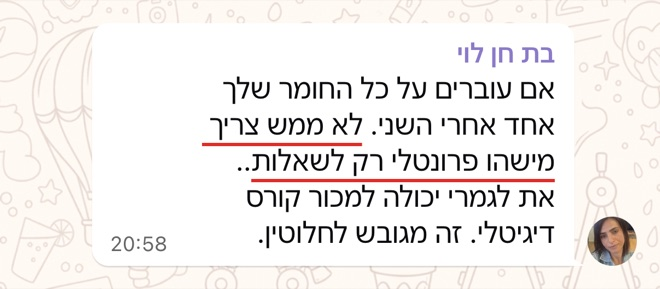
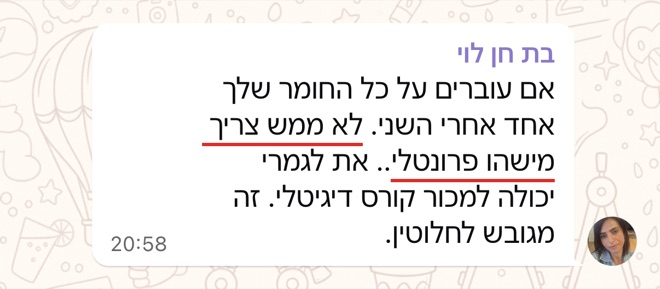
דף המפתח: סרטון ההסבר מעל המחיר, בלי רשימת הפרקים (הפרקים בנגן), ובת חן בלי 'רק לשאלות'

Changed region(s): [[0.3333, 0.5294, 0.8485, 0.7474], [0.3939, 0.7474, 0.8485, 0.872]]

diff --git a/index.html b/index.html
@@ -276,17 +276,10 @@ body{
 .what{background:var(--navy);padding:88px 0}
 .what .wrap{max-width:980px}
 .what h2{margin:0 0 26px;font-weight:800;color:#fff;line-height:1.25;font-size:clamp(26px,5.6vw,42px)}
-/* סרטון ההסבר "מה מקבלים במפתח" (17-10-2026, הכרעה 96) ורשימת הפרקים שמתחתיו.
-   הפרקים קיימים גם בתוך הנגן של Vimeo, אבל בטלפון התפריט שלהם קטן, ולכן הם מופיעים גם כאן. */
-.kv{margin:0 0 30px}
+/* סרטון ההסבר "מה מקבלים במפתח" (17-10-2026, הכרעה 96), בראש חלק המחיר. הפרקים מוצגים בתוך הנגן של Vimeo. */
+.kv{margin:0 0 44px}
 .kv__frame{position:relative;width:100%;aspect-ratio:1662/1080;border-radius:18px;overflow:hidden;background:#0b0524;box-shadow:0 14px 40px rgba(0,0,0,.35)}
 .kv__frame iframe{position:absolute;inset:0;width:100%;height:100%;border:0}
-.kv__label{margin:16px 0 10px;font-size:14px;font-weight:700;color:var(--gold)}
-.kv__chapters{list-style:none;margin:0;padding:0;display:flex;flex-wrap:wrap;gap:8px}
-.kv__chapters button{font-family:inherit;font-size:14px;line-height:1.3;color:#fff;background:rgba(255,255,255,.1);border:1px solid rgba(255,255,255,.18);border-radius:999px;padding:8px 14px;cursor:pointer;display:inline-flex;gap:8px;align-items:center;text-align:right}
-.kv__chapters button:hover,.kv__chapters button:focus-visible{background:rgba(255,255,255,.18)}
-.kv__chapters button.is-on{background:var(--gold);color:var(--navy);border-color:var(--gold)}
-.kv__chapters time{font-variant-numeric:tabular-nums;font-weight:700;opacity:.85}
 .what__def{margin:0 0 18px;font-weight:700;color:var(--gold);font-size:clamp(19px,4.6vw,25px);line-height:1.5}
 .what__body{margin:0 0 14px;font-weight:400;color:rgba(255,255,255,.82);font-size:clamp(16.5px,4vw,19px);line-height:1.7}
 .what__body:last-of-type{margin-bottom:0}
@@ -2284,22 +2277,6 @@ html:not(.is-personal) [data-personal-only]{display:none !important}
 <section class="what" id="what">
   <div class="wrap">
     <h2>מה בדיוק קונים כאן?</h2>
-    <div class="kv">
-      <div class="kv__frame">
-        <iframe id="kv-player" src="https://player.vimeo.com/video/1236807754?h=0b3f8b2ce3&amp;title=0&amp;byline=0&amp;portrait=0&amp;dnt=1" title="מה מקבלים במפתח - סרטון הסבר" allow="autoplay; fullscreen; picture-in-picture" allowfullscreen loading="lazy"></iframe>
-      </div>
-      <p class="kv__label">קפיצה לנושא בסרטון</p>
-      <ul class="kv__chapters">
-        <li><button type="button" data-t="0"><time>0:00</time><span>מה מקבלים במפתח</span></button></li>
-        <li><button type="button" data-t="6"><time>0:06</time><span>המשרד שתבנו</span></button></li>
-        <li><button type="button" data-t="39"><time>0:39</time><span>האזור האישי וההכנה עם בְּנָיָה</span></button></li>
-        <li><button type="button" data-t="59"><time>0:59</time><span>סוכני העזר</span></button></li>
-        <li><button type="button" data-t="68"><time>1:08</time><span>השלבים: סרטונים ותרגולים</span></button></li>
-        <li><button type="button" data-t="103"><time>1:43</time><span>כשנתקעים: יוסף בוואטסאפ</span></button></li>
-        <li><button type="button" data-t="120"><time>2:00</time><span>שני שיעורים עם מנטור/ית</span></button></li>
-        <li><button type="button" data-t="137"><time>2:17</time><span>המדריכים</span></button></li>
-      </ul>
-    </div>
     <p class="what__def">תוכנית הכשרה לבניית צוות של סוכני AI.</p>
     <p class="what__body">התוכנית לוקחת אתכם יד ביד עם חומרי למידה ותרגולים מובנים - מהצעד הראשון ועד שיש לכם משרד AI - מלא בסוכנים שעובדים בשבילכם.</p>
     <p class="what__body">זה לא עוד קורס דיגיטלי שתקנו ובחיים לא תפתחו. זו תוכנית מובנית עם שלבים ברורים ליישום.</p>
@@ -2494,7 +2471,7 @@ html:not(.is-personal) [data-personal-only]{display:none !important}
           <li><b>צופים מתי שנוח,</b> עוצרים באמצע, חוזרים כמה פעמים שצריך</li>
           <li><b>ההקלטות והחומרים נשארים אצלכם</b> - גם אחרי שסיימתם</li>
         </ul>
-        <div class="proof-strip"><p class="proof-strip__label">ככה תלמידים כותבים לנו בוואטסאפ</p><div class="tm-qm"><div class="tm-qm__row"><div class="tm-qm__track"><button type="button" class="tm-qm__shot" style="--ar:2.609" data-full="assets/wa-trn-0353.jpg" aria-label="הגדלת ההודעה של בת חן לוי"><img src="assets/wa-trn-0353.jpg" alt="הודעה של בת חן לוי: אין לי מושג איך הצלחת לקחת עולם כל כך מורכב ולהנגיש אותו לאנשים שלא כותבים קוד רק מבינים לוגיקה" loading="lazy"></button><button type="button" class="tm-qm__shot" style="--ar:2.609" data-full="assets/wa-trn-0385.jpg" aria-label="הגדלת ההודעה של ענת מנור"><img src="assets/wa-trn-0385.jpg" alt="הודעה של ענת מנור: הקורס מאוד עזר לי להבין יותר - עכשיו יש לי סדר, ואני יודעת איך לשאול את קלוד נכון ולהבין כמה הדאטה חשוב" loading="lazy"></button><button type="button" class="tm-qm__shot" style="--ar:1.307" data-full="assets/wa-trn-0658.jpg" aria-label="הגדלת ההודעה של דבורי חשין"><img src="assets/wa-trn-0658.jpg" alt="הודעה של דבורי חשין: היו לי פרוייקטים לא מסודרים, וברגע שהתחלנו את הקורס הייתי עסוקה בפיצוח השיטה.  ואז הרכבתי מחדש את הפרוייקטים וקרה הקסם.   לאור זאת יכולתי לבנות משרד שלם באותה שיטת עבודה מדוייקת וגאונית - הדפוסים, הארכיטקטורה, שיטת בניית סוכן, מבנה התיקיות.." loading="lazy"></button><button type="button" class="tm-qm__shot" style="--ar:2.609" data-full="assets/wa-trn-0659.jpg" aria-label="הגדלת ההודעה של דבורי חשין"><img src="assets/wa-trn-0659.jpg" alt="הודעה של דבורי חשין: תצמדו לשיטה של אימפרוב - גבולות הסוכנים, מיון שותף, ותהליך לחדד את הסוכנים - זה פשוט מטורף!!!" loading="lazy"></button><button type="button" class="tm-qm__shot" style="--ar:2.284" data-full="assets/wa-trn-0327.jpg" aria-label="הגדלת ההודעה של בת חן לוי"><img src="assets/wa-trn-0327.jpg" alt="הודעה של בת חן לוי: ההכנה מובנית מעולה. זה מאוד ברור. פדגוגית זה מורכב לבנות הכנה כזו, כי את ממש צריכה להתחקות אחרי התלמיד... וכל אחד מרקע אחר..." loading="lazy"></button><button type="button" class="tm-qm__shot" style="--ar:2.031" data-full="assets/wa-trn-0024.jpg" aria-label="הגדלת ההודעה של מורן טאובר"><img src="assets/wa-trn-0024.jpg" alt="הודעה של מורן טאובר: בחיים לא חשבתי שאגיד את זה.. אבל אני סוף סוף אוהבת לעשות שיעורי בית! אני מבטלת דברים רק בשביל לשבת על זה כי זה כיף.. עולם חדש נפתח ללא ספק!" loading="lazy"></button><button type="button" class="tm-qm__shot" style="--ar:1.407" data-full="assets/wa-trn-0565.jpg" aria-label="הגדלת ההודעה של טל בירמן"><img src="assets/wa-trn-0565.jpg" alt="הודעה של טל בירמן: חייב להגיד שאת תותחית ויותר ממוזמנת להשתמש בזה באינסטגרם. רק מהשלושה שיעורים הראשונים בלבד בניתי שני סוכנים שמנהלים את כל ההתעסקות שלי ופתיחת עסק עצמאי בסין, כולל ויזות וירידה לפרטים הקטנים - הכול מהידע של הקורס!" loading="lazy"></button><button type="button" class="tm-qm__shot" style="--ar:2.284" data-full="assets/wa-trn-0354.jpg" aria-label="הגדלת ההודעה של בת חן לוי"><img src="assets/wa-trn-0354.jpg" alt="הודעה של בת חן לוי: אם עוברים על כל החומר שלך אחד אחרי השני. לא ממש צריך מישהו פרונטלי רק לשאלות.. את לגמרי יכולה למכור קורס דיגיטלי. זה מגובש לחלוטין." loading="lazy"></button><button type="button" class="tm-qm__shot" style="--ar:1.524" data-full="assets/wa-trn-0743.jpg" aria-label="הגדלת ההודעה של Daniel m"><img src="assets/wa-trn-0743.jpg" alt="הודעה של Daniel m: קלוד תיעד מה רלוונטי, קרא את הקוד של שלהבת מ-GitHub ובנה תוכנית פעולה. זה פשוט מטורף. לפני 4 שבועות שום דבר מזה לא היה הגיוני. הכל היה בדיוני ועכשיו הכל מסתדר, הכל מתחבר." loading="lazy"></button></div></div></div></div>
+        <div class="proof-strip"><p class="proof-strip__label">ככה תלמידים כותבים לנו בוואטסאפ</p><div class="tm-qm"><div class="tm-qm__row"><div class="tm-qm__track"><button type="button" class="tm-qm__shot" style="--ar:2.609" data-full="assets/wa-trn-0353.jpg" aria-label="הגדלת ההודעה של בת חן לוי"><img src="assets/wa-trn-0353.jpg" alt="הודעה של בת חן לוי: אין לי מושג איך הצלחת לקחת עולם כל כך מורכב ולהנגיש אותו לאנשים שלא כותבים קוד רק מבינים לוגיקה" loading="lazy"></button><button type="button" class="tm-qm__shot" style="--ar:2.609" data-full="assets/wa-trn-0385.jpg" aria-label="הגדלת ההודעה של ענת מנור"><img src="assets/wa-trn-0385.jpg" alt="הודעה של ענת מנור: הקורס מאוד עזר לי להבין יותר - עכשיו יש לי סדר, ואני יודעת איך לשאול את קלוד נכון ולהבין כמה הדאטה חשוב" loading="lazy"></button><button type="button" class="tm-qm__shot" style="--ar:1.307" data-full="assets/wa-trn-0658.jpg" aria-label="הגדלת ההודעה של דבורי חשין"><img src="assets/wa-trn-0658.jpg" alt="הודעה של דבורי חשין: היו לי פרוייקטים לא מסודרים, וברגע שהתחלנו את הקורס הייתי עסוקה בפיצוח השיטה.  ואז הרכבתי מחדש את הפרוייקטים וקרה הקסם.   לאור זאת יכולתי לבנות משרד שלם באותה שיטת עבודה מדוייקת וגאונית - הדפוסים, הארכיטקטורה, שיטת בניית סוכן, מבנה התיקיות.." loading="lazy"></button><button type="button" class="tm-qm__shot" style="--ar:2.609" data-full="assets/wa-trn-0659.jpg" aria-label="הגדלת ההודעה של דבורי חשין"><img src="assets/wa-trn-0659.jpg" alt="הודעה של דבורי חשין: תצמדו לשיטה של אימפרוב - גבולות הסוכנים, מיון שותף, ותהליך לחדד את הסוכנים - זה פשוט מטורף!!!" loading="lazy"></button><button type="button" class="tm-qm__shot" style="--ar:2.284" data-full="assets/wa-trn-0327.jpg" aria-label="הגדלת ההודעה של בת חן לוי"><img src="assets/wa-trn-0327.jpg" alt="הודעה של בת חן לוי: ההכנה מובנית מעולה. זה מאוד ברור. פדגוגית זה מורכב לבנות הכנה כזו, כי את ממש צריכה להתחקות אחרי התלמיד... וכל אחד מרקע אחר..." loading="lazy"></button><button type="button" class="tm-qm__shot" style="--ar:2.031" data-full="assets/wa-trn-0024.jpg" aria-label="הגדלת ההודעה של מורן טאובר"><img src="assets/wa-trn-0024.jpg" alt="הודעה של מורן טאובר: בחיים לא חשבתי שאגיד את זה.. אבל אני סוף סוף אוהבת לעשות שיעורי בית! אני מבטלת דברים רק בשביל לשבת על זה כי זה כיף.. עולם חדש נפתח ללא ספק!" loading="lazy"></button><button type="button" class="tm-qm__shot" style="--ar:1.407" data-full="assets/wa-trn-0565.jpg" aria-label="הגדלת ההודעה של טל בירמן"><img src="assets/wa-trn-0565.jpg" alt="הודעה של טל בירמן: חייב להגיד שאת תותחית ויותר ממוזמנת להשתמש בזה באינסטגרם. רק מהשלושה שיעורים הראשונים בלבד בניתי שני סוכנים שמנהלים את כל ההתעסקות שלי ופתיחת עסק עצמאי בסין, כולל ויזות וירידה לפרטים הקטנים - הכול מהידע של הקורס!" loading="lazy"></button><button type="button" class="tm-qm__shot" style="--ar:2.284" data-full="assets/wa-trn-0354.jpg" aria-label="הגדלת ההודעה של בת חן לוי"><img src="assets/wa-trn-0354.jpg" alt="הודעה של בת חן לוי: אם עוברים על כל החומר שלך אחד אחרי השני. לא ממש צריך מישהו פרונטלי.. את לגמרי יכולה למכור קורס דיגיטלי. זה מגובש לחלוטין." loading="lazy"></button><button type="button" class="tm-qm__shot" style="--ar:1.524" data-full="assets/wa-trn-0743.jpg" aria-label="הגדלת ההודעה של Daniel m"><img src="assets/wa-trn-0743.jpg" alt="הודעה של Daniel m: קלוד תיעד מה רלוונטי, קרא את הקוד של שלהבת מ-GitHub ובנה תוכנית פעולה. זה פשוט מטורף. לפני 4 שבועות שום דבר מזה לא היה הגיוני. הכל היה בדיוני ועכשיו הכל מסתדר, הכל מתחבר." loading="lazy"></button></div></div></div></div>
       </div>
 
       <div class="opens-card">
@@ -3080,6 +3057,12 @@ html:not(.is-personal) [data-personal-only]{display:none !important}
 <!-- סקשן 8 - מה כלול והמחיר. 5,900 הוא הנקוב, בכוונה. -->
 <section class="price" id="price">
   <div class="wrap">
+    <!-- 17-10-2026 (הערה 86): סרטון ההסבר בראש חלק המחיר, מעל "מה נכנס פנימה". הפרקים בתוך הנגן של Vimeo עצמו. -->
+    <div class="kv">
+      <div class="kv__frame">
+        <iframe id="kv-player" src="https://player.vimeo.com/video/1236807754?h=0b3f8b2ce3&amp;title=0&amp;byline=0&amp;portrait=0&amp;dnt=1" title="מה מקבלים במפתח - סרטון הסבר" allow="autoplay; fullscreen; picture-in-picture" allowfullscreen loading="lazy"></iframe>
+      </div>
+    </div>
     <h2>מה נכנס פנימה</h2>
     <div class="price-grid">
       <ul class="price__list">
@@ -5370,32 +5353,6 @@ window.interdeal = {
 </script>
 <!-- 17-10-2026 (הערה 85): בלי הכפתור הצף "⚙ פרטיות". שינוי הבחירה - בקישור "הגדרות עוגיות" בתחתית הדף. -->
 <script src="https://r.aimprove.co.il/consent-banner.js" data-page="maftecha" data-reopener="none"></script>
-<script>
-/* פרקי סרטון ההסבר: לחיצה מקפיצה את הנגן לתחילת הנושא ומנגנת. משתמש בממשק ה-postMessage
-   של Vimeo, ולכן לא צריך לטעון את player.js. אם הדפדפן חוסם ניגון עם קול, הנגן נשאר
-   בנקודה הנכונה והצופה לוחץ על play. */
-(function () {
-  try {
-    var f = document.getElementById('kv-player');
-    var list = document.querySelector('.kv__chapters');
-    if (!f || !list) return;
-    function cmd(method, value) {
-      var m = { method: method };
-      if (value !== undefined) m.value = value;
-      f.contentWindow && f.contentWindow.postMessage(JSON.stringify(m), 'https://player.vimeo.com');
-    }
-    list.addEventListener('click', function (e) {
-      var b = e.target.closest && e.target.closest('button[data-t]');
-      if (!b) return;
-      var on = list.querySelector('.is-on');
-      if (on) on.classList.remove('is-on');
-      b.classList.add('is-on');
-      cmd('setCurrentTime', Number(b.getAttribute('data-t')));
-      cmd('play');
-    });
-  } catch (e) {}
-})();
-</script>
 <script id="key-toc">
 /* תפריט הסעיפים (17-10-2026, הערה 83): מוצג אחרי הפתיחה, ומדגיש את החלק שעל המסך. כמה חלקים שייכים לאותו פריט. */
 (function () {
